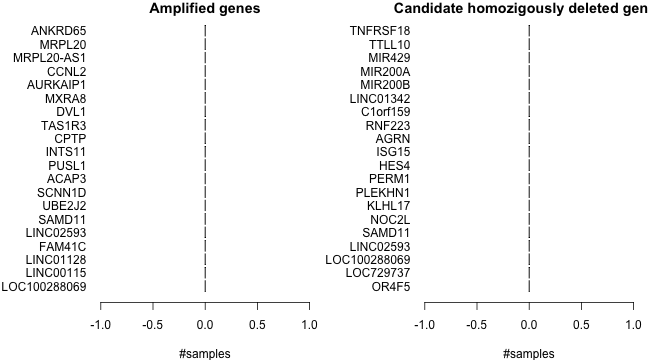
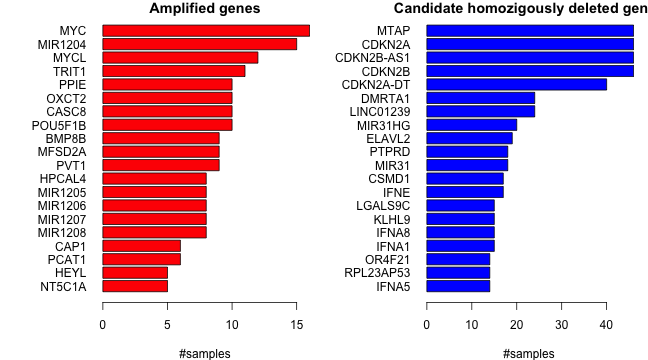
modified:   README.Rmd 	modified:   README.md 	modified:   figure/plot6-1.png 	modified:   figure/plot7-1.png 	modified:   figure/plot8-1.png

diff --git a/README.md b/README.md
@@ -743,9 +743,9 @@ deepdel <- apply(gene_cnv$cnvmat, 1, function(x) which(x < -2))
 
 ```r
 par(mfrow=c(1,2),mar=c(4,7,1,1))
-barplot(sort(unlist(lapply(amplified,length)),decreasing=FALSE)[1:20],col="red",
+barplot(sort(unlist(lapply(amplified,length)),decreasing=TRUE)[20:1],col="red",
         las=1,main="Amplified genes",horiz=TRUE,xlab="#samples")
-barplot(sort(unlist(lapply(deepdel,length)),decreasing=FALSE)[1:20],col="blue",
+barplot(sort(unlist(lapply(deepdel,length)),decreasing=TRUE)[20:1],col="blue",
         las=1,main="Candidate homozigously deleted genes",horiz=TRUE,xlab="#samples")
 ```
 
@@ -759,9 +759,9 @@ Instead of focusing on high-level dosage changes, we evaluate whether CNV break 
 ```r
 results_cnv <- cnv.break.annot(segdf_clean, fc.pct = 0.2, genome.v="hg19",clean.brk = 8,upstr = 50000,verbose=FALSE)
 par(mfrow=c(1,2),mar=c(4,7,1,1))
-barplot(sort(unlist(lapply(results_cnv$disruptSamples,length)),decreasing=FALSE)[1:20],
+barplot(sort(unlist(lapply(results_cnv$disruptSamples,length)),decreasing=TRUE)[20:1],
         las=1,main="Gene coding region disrupted",horiz=TRUE,xlab="#samples")
-barplot(sort(unlist(lapply(results_cnv$upstreamSamples,length)),decreasing=FALSE)[1:20],
+barplot(sort(unlist(lapply(results_cnv$upstreamSamples,length)),decreasing=TRUE)[20:1],
         las=1,main="Gene upstream region disrupted",horiz=TRUE,xlab="#samples")
 ```
 
@@ -776,9 +776,9 @@ The output returns a list of genes and associated variants that can be retrieved
 ```r
 results_sv <- sv.break.annot(svdf, sv.seg.size = 200000, genome.v="hg19",upstr = 50000, verbose=FALSE)
 par(mfrow=c(1,2),mar=c(4,7,1,1))
-barplot(sort(unlist(lapply(results_sv$disruptSamples,length)),decreasing=FALSE)[1:20],
+barplot(sort(unlist(lapply(results_sv$disruptSamples,length)),decreasing=TRUE)[20:1],
         las=1,main="Coding region disrupted",horiz=TRUE,xlab="#samples")
-barplot(sort(unlist(lapply(results_sv$upstreamSamples,length)),decreasing=FALSE)[1:20],
+barplot(sort(unlist(lapply(results_sv$upstreamSamples,length)),decreasing=TRUE)[20:1],
         las=1,main="Upstream region disrupted",horiz=TRUE,xlab="#samples")
 ```
 
